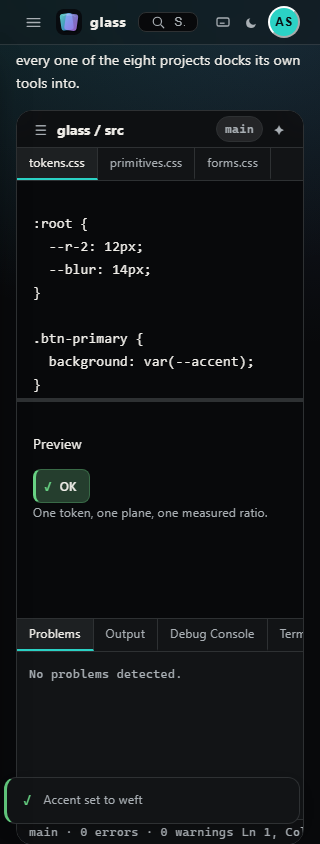
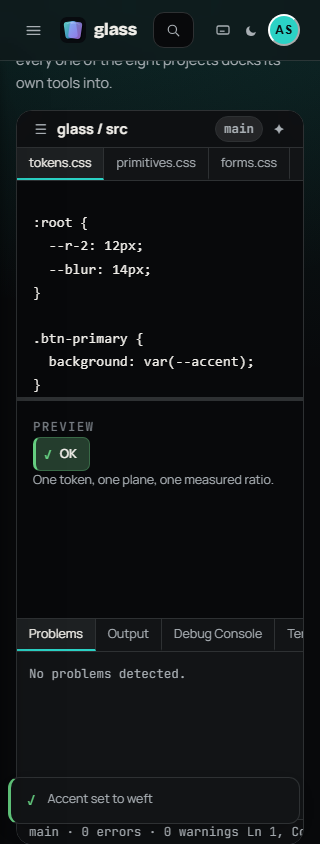
demo: re-skin Glass Studio to the Glass Studio visual language
Match the demo app to the redesign artifact's form while keeping the verified
colour system and every feature intact.

- Adopt Bricolage Grotesque / Manrope / JetBrains Mono (display/body/mono),
  each with a system fallback so the page still renders offline.
- Softer radius ladder (7/11/16 + a 22px step), a looser top-end rhythm,
  a snappier easing curve, a deeper 20px blur and a floatier shadow.
- Paint the accent atmosphere as a broad top-corner glow, and give the hero
  an accent bloom.
- Supply styling for the demo-only utility classes the shipped markup used but
  never defined (.display, .lede, .kicker, .sec-note, the ramp grid, the
  type/radii card, the bare foundations tables, and the eight-theme gallery),
  which previously rendered with browser defaults.

Colour still comes entirely from src/*, so the live budget on the page keeps
measuring the real system. The eight canonical brand hues (Zeno crimson, Weft
teal, ...) are deliberately kept rather than adopting the artifact's re-hue, so
the gallery and swatches stay truthful to each project. No markup, route,
handler or data flow changed.

Contrast law: 814/814 across 16 palettes. Browser verification: 15/15 checks,
zero errors (evidence screenshots regenerated).

diff --git a/demo/index.html b/demo/index.html
@@ -25,6 +25,13 @@
 <link rel="stylesheet" href="../src/themes/rephrase.css">
 <link rel="stylesheet" href="../src/themes/detect.css">
 
+<!-- Redesign typography. The system's stylesheets under ../src still reach the
+     network for nothing; this demo page adopts the Glass Studio display/body/mono
+     faces, each with a system fallback so the page is complete offline too. -->
+<link rel="preconnect" href="https://fonts.googleapis.com">
+<link rel="preconnect" href="https://fonts.gstatic.com" crossorigin>
+<link rel="stylesheet" href="https://fonts.googleapis.com/css2?family=Bricolage+Grotesque:opsz,wght@12..96,600..800&family=Manrope:wght@400;500;600;700;800&family=JetBrains+Mono:wght@400;500;600;700&display=swap">
+
 <style>
 /* Demo-only layout. Every value below is a token from the system; this page
    introduces no colour, no radius, no duration and no font of its own. Where
@@ -250,6 +257,138 @@ pre.code-block .tag { color: var(--accent); }
   .cmdk-trigger .kbd { display: none; }
   .seg3 { flex-direction: column; }
 }
+
+/* =============================================================================
+   GLASS STUDIO — REDESIGN LAYER
+   Demo-only. Re-skins the app to the Glass Studio visual language (Bricolage /
+   Manrope / JetBrains Mono, softer radii, a looser section rhythm, a deeper
+   blur, a floatier shadow and an accent atmosphere) and supplies styling for
+   the demo-only utility classes (.display, .lede, .ramp, .tablewrap, the
+   foundations grids and the theme gallery) that the shipped markup uses. The
+   contrast law, the eight verified themes and every colour token are untouched:
+   colour still comes entirely from ../src, so the live budget on this page is
+   still measuring the real system.
+   ============================================================================= */
+
+:root {
+  --font-display: "Bricolage Grotesque", "Segoe UI", system-ui, sans-serif;
+  --font-ui: "Manrope", "Segoe UI", system-ui, -apple-system, Roboto, sans-serif;
+  --font-mono: "JetBrains Mono", ui-monospace, "Cascadia Mono", Consolas, monospace;
+
+  /* softer corner ladder + one extra step, from the artifact */
+  --r-1: 7px; --r-2: 11px; --r-3: 16px; --r-4: 22px;
+
+  /* looser rhythm at the top end (section gaps and screen padding) */
+  --sp-6: 28px; --sp-7: 40px; --sp-8: 56px;
+
+  /* snappier curve, shorter slow tier */
+  --ease: cubic-bezier(.2, .7, .2, 1);
+  --t-base: 200ms;
+  --t-slow: 340ms;
+
+  /* deeper blur; a floatier, longer-reach shadow with a specular top edge */
+  --gl-blur: blur(20px) saturate(1.3);
+  --gl-shadow:
+    inset 0 1px 0 var(--gl-spec),
+    0 26px 60px -22px oklch(0% 0 0 / .62),
+    0 2px 10px oklch(0% 0 0 / .3);
+}
+
+::selection { background: var(--accent); color: var(--on-accent); }
+
+/* ---- the atmosphere: a broad accent glow off the top corners --------------- */
+.glass-page.glass-atmosphere {
+  background-image:
+    radial-gradient(1100px 620px at 14% -8%, color-mix(in srgb, var(--accent) 13%, transparent), transparent 60%),
+    radial-gradient(900px 560px at 100% 8%, color-mix(in srgb, var(--accent) 7%, transparent), transparent 55%);
+}
+
+/* ---- typography ------------------------------------------------------------ */
+.display {
+  font-family: var(--font-display);
+  font-weight: 800;
+  letter-spacing: -0.02em;
+  line-height: 1.08;
+  text-wrap: balance;
+  color: var(--ink);
+  font-size: var(--fs-3);
+}
+.brand { font-family: var(--font-display); font-weight: 800; letter-spacing: -0.01em; font-size: 1.06rem; }
+.screen h2 { font-family: var(--font-display); font-weight: 700; letter-spacing: -0.01em; color: var(--ink); }
+.kicker {
+  font-family: var(--font-mono); font-size: var(--fs-0); font-weight: 600;
+  letter-spacing: .1em; text-transform: uppercase; color: var(--ink-3); margin: 0;
+}
+.lede { color: var(--ink-2); font-size: var(--fs-1); line-height: var(--lh-3); max-width: 64ch; margin: 6px 0 0; }
+.sec-note { color: var(--ink-2); font-size: var(--fs-1); line-height: var(--lh-3); max-width: 74ch; }
+.stat-line { font-family: var(--font-mono); font-size: var(--fs-0); color: var(--ink-2); }
+.stat-line b { color: var(--ink); font-weight: 700; }
+.mono { font-family: var(--font-mono); }
+
+/* ---- shell chrome dimensions ----------------------------------------------- */
+.topbar { height: 60px; gap: var(--sp-4); }
+.sidebar { width: 236px; }
+.cmdk-trigger { min-height: 36px; max-width: 420px; border-radius: var(--r-2); }
+.screen { max-width: 1180px; padding: var(--sp-6) var(--sp-7) var(--sp-8); }
+@media (max-width: 900px) {
+  .sidebar { top: 60px; }
+  .screen { padding: var(--sp-5) var(--sp-4) var(--sp-8); }
+}
+
+/* ---- primitives, nudged to the artifact’s shape --------------------------- */
+.btn { border-radius: var(--r-2); font-weight: 650; }
+.btn-primary { font-weight: 700; box-shadow: 0 8px 20px -8px color-mix(in srgb, var(--accent) 60%, transparent); }
+.card { border-radius: var(--r-3); }
+.chip { font-weight: 650; }
+
+/* ---- overview hero: an accent bloom in the corner -------------------------- */
+.hero-card > * { position: relative; }
+.hero-card::before {
+  content: ""; position: absolute; inset: 0; pointer-events: none;
+  background: radial-gradient(560px 280px at 90% -12%, color-mix(in srgb, var(--accent) 16%, transparent), transparent 65%);
+}
+.hero-title { font-size: var(--fs-3); }
+
+/* ---- foundations: the ramp ------------------------------------------------- */
+.ramp { display: grid; grid-template-columns: repeat(auto-fill, minmax(150px, 1fr)); gap: var(--sp-3); }
+.ramp-cell { display: flex; flex-direction: column; gap: 6px; }
+.ramp-swatch { height: 52px; border-radius: var(--r-2); border: 1px solid var(--gl-edge); box-shadow: inset 0 1px 0 var(--gl-spec); }
+.ramp-meta { display: flex; flex-direction: column; gap: 1px; }
+.ramp-name { font-family: var(--font-mono); font-size: .72rem; color: var(--ink-2); }
+.ramp-val { font-family: var(--font-mono); font-size: .7rem; color: var(--ink-3); }
+
+/* ---- foundations: type & radii card --------------------------------------- */
+.grid { display: grid; }
+.grid.g2 { grid-template-columns: 1fr 1fr; gap: var(--sp-6); }
+@media (max-width: 640px) { .grid.g2 { grid-template-columns: 1fr; } }
+.type-row { display: flex; align-items: center; justify-content: space-between; gap: var(--sp-3); padding: var(--sp-2) 0; border-top: 1px solid var(--line); }
+.type-row:first-child { border-top: none; }
+.type-tag { font-family: var(--font-mono); color: var(--ink-2); font-size: var(--fs-0); }
+.radii { display: flex; flex-direction: column; gap: 12px; justify-content: center; }
+.radii figure { display: flex; align-items: center; gap: 12px; margin: 0; }
+.radii .box { width: 46px; height: 46px; flex: none; background: var(--gl-fill); border: 1px solid var(--gl-edge); box-shadow: inset 0 1px 0 var(--gl-spec); }
+.radii figcaption { font-family: var(--font-mono); font-size: var(--fs-0); color: var(--ink-2); }
+
+/* ---- foundations: the budget & a11y tables (bare <table> in a .tablewrap) -- */
+.tablewrap { overflow-x: auto; border: 1px solid var(--gl-edge); border-radius: var(--r-2); }
+.tablewrap table { width: 100%; border-collapse: collapse; font-size: var(--fs-0); min-width: 520px; }
+.tablewrap th { text-align: left; font-size: .72rem; text-transform: uppercase; letter-spacing: .05em; color: var(--ink-3); font-weight: 700; padding: 10px 14px; background: var(--gl-fill); position: sticky; top: 0; }
+.tablewrap td { padding: 10px 14px; border-top: 1px solid var(--line); color: var(--ink); vertical-align: top; }
+.tablewrap tbody tr:hover td { background: var(--surface); }
+.tablewrap .num, .tablewrap .tok { font-family: var(--font-mono); font-size: .8rem; }
+
+/* ---- foundations: the eight-theme gallery ---------------------------------- */
+#gallery-rows { padding: 0; }
+.gal-row { display: grid; grid-template-columns: 1.5fr 1fr 1fr; gap: var(--sp-4); align-items: center; padding: var(--sp-3) var(--sp-4); border-top: 1px solid var(--line); cursor: pointer; transition: background var(--t-fast) var(--ease); }
+.gal-row:first-child { border-top: none; }
+.gal-row:hover { background: var(--surface); }
+.gal-name { display: flex; flex-direction: column; gap: 1px; }
+.gal-title { font-family: var(--font-mono); font-weight: 700; color: var(--ink); }
+.gal-origin { font-size: .72rem; color: var(--ink-3); }
+.strip-label { display: block; font-size: .66rem; font-family: var(--font-mono); color: var(--ink-3); margin-bottom: 4px; }
+.strip { display: grid; grid-template-columns: repeat(7, 1fr); gap: 3px; height: 26px; border-radius: 6px; overflow: hidden; }
+.strip i { display: block; }
+@media (max-width: 640px) { .gal-row { grid-template-columns: 1fr; } }
 </style>
 </head>
 
